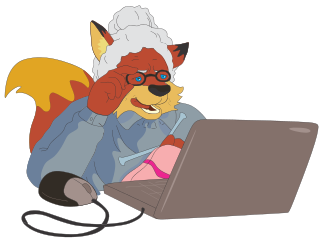
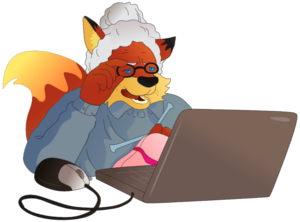
Fixed asset for mamie fox, Pascal's feedback on links/typos, trying to fix page sharing via FB

diff --git a/web/includes/header.php b/web/includes/header.php
@@ -9,23 +9,23 @@
   <meta name="description" content="Site de présentation de Firefox OS, maintenu par la communauté Mozilla francophone.">
   <meta property="og:type" content="website">
   <meta property="og:site_name" content="Firefox OS en français">
-  <meta property="og:locale" content="fr">
+  <meta property="og:locale" content="fr_FR">
   <meta property="og:url" content="http://firefoxos.mozfr.org/">
-  <meta property="og:image" content="http://firefoxos.mozfr.org/media/img/firefox-os256.png">
+  <meta property="og:image" content="/media/img/firefox-os256.png">
   <meta property="og:title" content="Firefox OS en français">
   <meta property="og:description" content="Site de présentation de Firefox OS, maintenu par la communauté Mozilla francophone.">
   <meta property="fb:page_id" content="571893379557863">
   <meta name="twitter:card" content="summary">
   <meta name="twitter:site" content="@firefoxosfr">
   <meta name="twitter:domain" content="firefoxos.mozfr.org">
-  <link rel="shortcut icon" href="./media/img/favicon128.png">
-  <link rel="apple-touch-icon" type="image/png" sizes="128x128" href="./media/img/favicon128.png">
-  <link rel="icon" type="image/png" sizes="128x128" href="./media/img/favicon128.png">
+  <link rel="shortcut icon" href="/media/img/favicon128.png">
+  <link rel="apple-touch-icon" type="image/png" sizes="128x128" href="/media/img/favicon128.png">
+  <link rel="icon" type="image/png" sizes="128x128" href="/media/img/favicon128.png">
   <link rel="canonical" hreflang="fr" href="http://firefoxos.mozfr.org/">
   <link rel="stylesheet" media="screen,projection,tv" href="css/responsive-min.css">
   <link rel="stylesheet" media="screen,projection,tv" href="css/home-2015-min.css">
   <link rel="stylesheet" media="screen,projection,tv" href="css/main.css">
-  <link rel="shortcut icon" href="./media/img/favicon.ico?v=3">
+  <link rel="shortcut icon" href="/media/img/favicon.ico?v=3">
   <script src="media/js/site-min.js"></script>
   <!-- Async player loading -->
   <script src="media/js/player.js"></script>

diff --git a/classes/FirefoxOSfr/TileTwitter.php b/classes/FirefoxOSfr/TileTwitter.php
@@ -42,7 +42,15 @@ class TileTwitter {
         }
     }
 
-    public function getTweetWritenBy($idAccountToFollow, $numberOfTweet, $screenNameToFollow) {
+    /**
+     * Uses Twitter API to fetch one or several tweets from a given Twitter account
+     * @param $idAccountToFollow Integer, Twitter account ID
+     * @param $numberOfTweet Integer, number of tweet (text, scren name, name) you need
+     * @param $numberOfTweet String, the screen name of the account (e.g. Firefox OS FR)
+     * @return Array of tweet ID containing another array which contains the text of the tweet,
+     *  the screen name and the account name (e.g. firefoxosfr).
+     */
+    public function getTweetWrittenBy($idAccountToFollow, $numberOfTweet, $screenNameToFollow) {
 
         $cache_id = 'twitter' . $idAccountToFollow . $numberOfTweet;
         if (! $tweets = Cache::getKey($cache_id)) {

diff --git a/web/includes/body.php b/web/includes/body.php
@@ -62,7 +62,7 @@
           </div>
         </li>
         <li id="promo-6" class="item promo-large-landscape mamie-fox" tabindex="0" data-name="Mamie fox">
-          <img class="primary go" src="media/img/mamie-fox.png" alt="Mamie fox">
+          <img class="primary go" src="media/img/mamie-fox.png?27-10-2014" alt="Mamie fox">
           <h2 class="primary go">Mamie fox</h2>
           <a class="panel-link" href="#">
             <div class="secondary">

diff --git a/web/index.php b/web/index.php
@@ -12,7 +12,7 @@ $fb = new TileFacebook('../config/config.ini');
 $fb_res = $fb->getLatestStatus();
 
 $twitter = new TileTwitter('../config/config.ini');
-$tweet = $twitter->getTweetWritenBy(2228736763, 1, 'firefoxosfr');
+$tweet = $twitter->getTweetWrittenBy(2228736763, 1, 'firefoxosfr');
 $tweet_id = array_keys($tweet)[0];
 $tweet_text = $tweet[$tweet_id]['text'];
 

diff --git a/classes/FirefoxOSfr/Cache.php b/classes/FirefoxOSfr/Cache.php
@@ -1,7 +1,7 @@
 <?php
 namespace FirefoxOSfr;
 
-/* Cache class comming from Transvision project: https://github.com/mozfr/transvision */
+/* Cache class coming from Transvision project: https://github.com/mozfr/transvision */
 
 /**
  * Cache class
